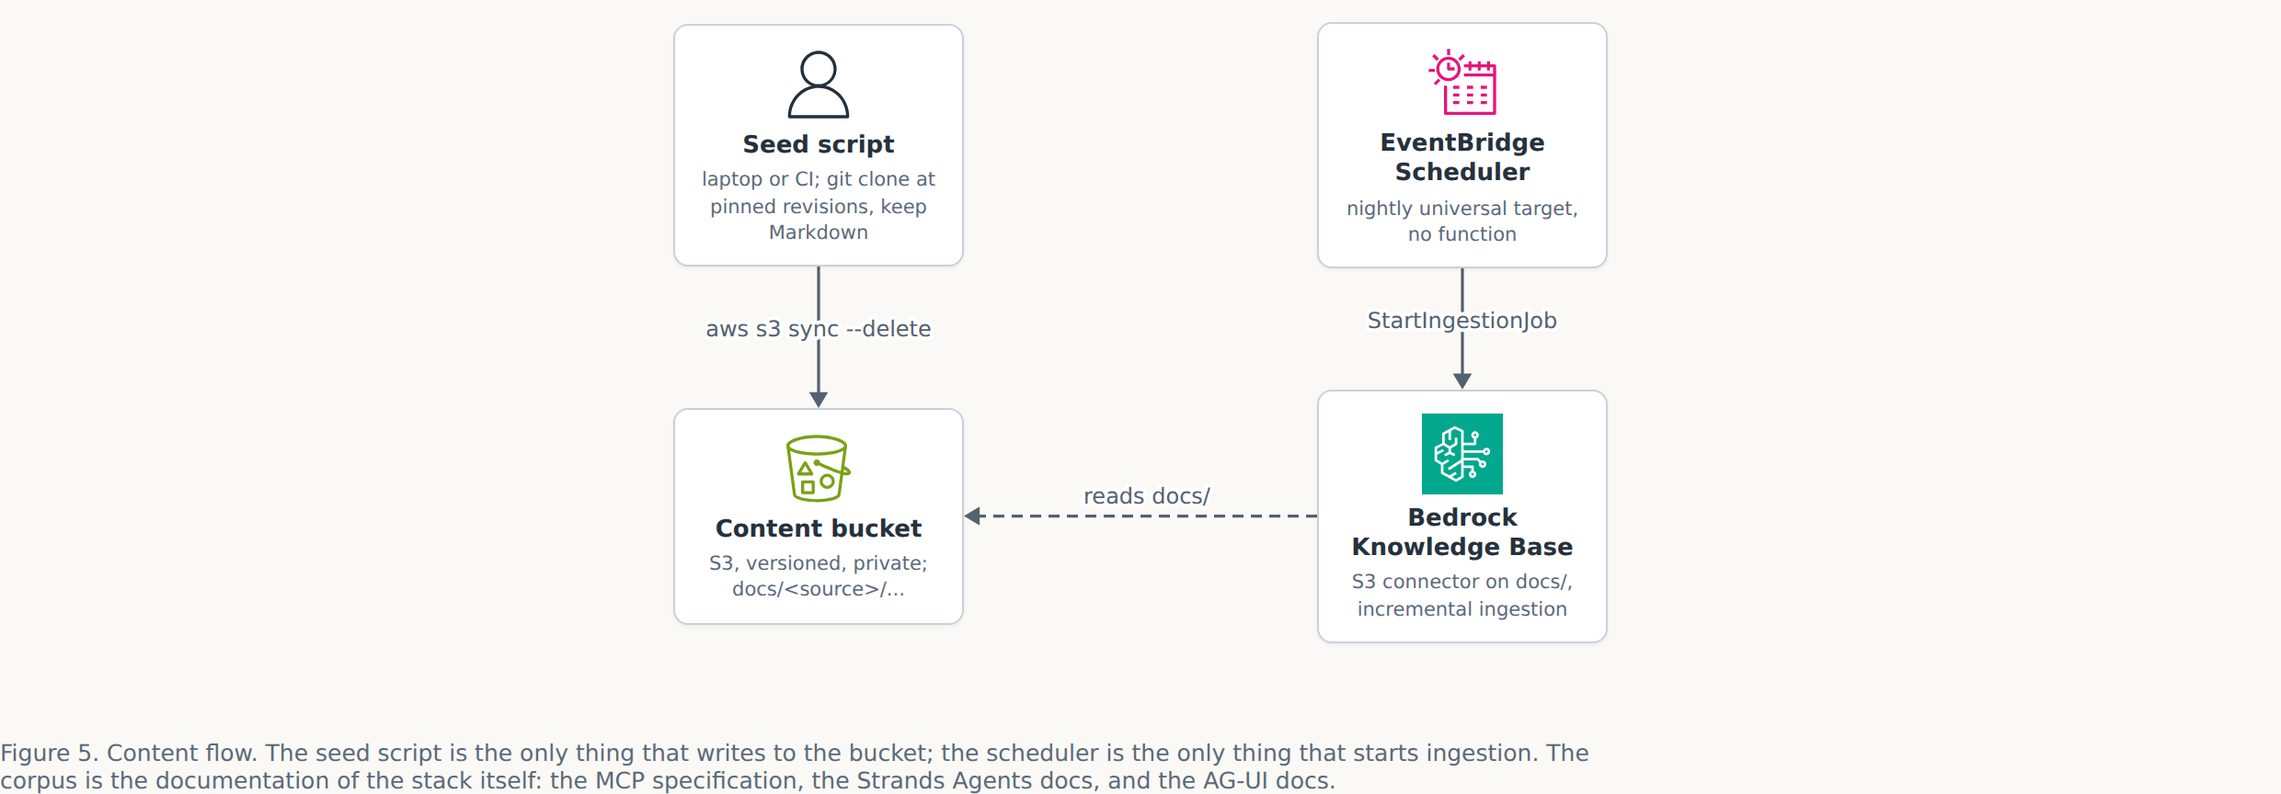
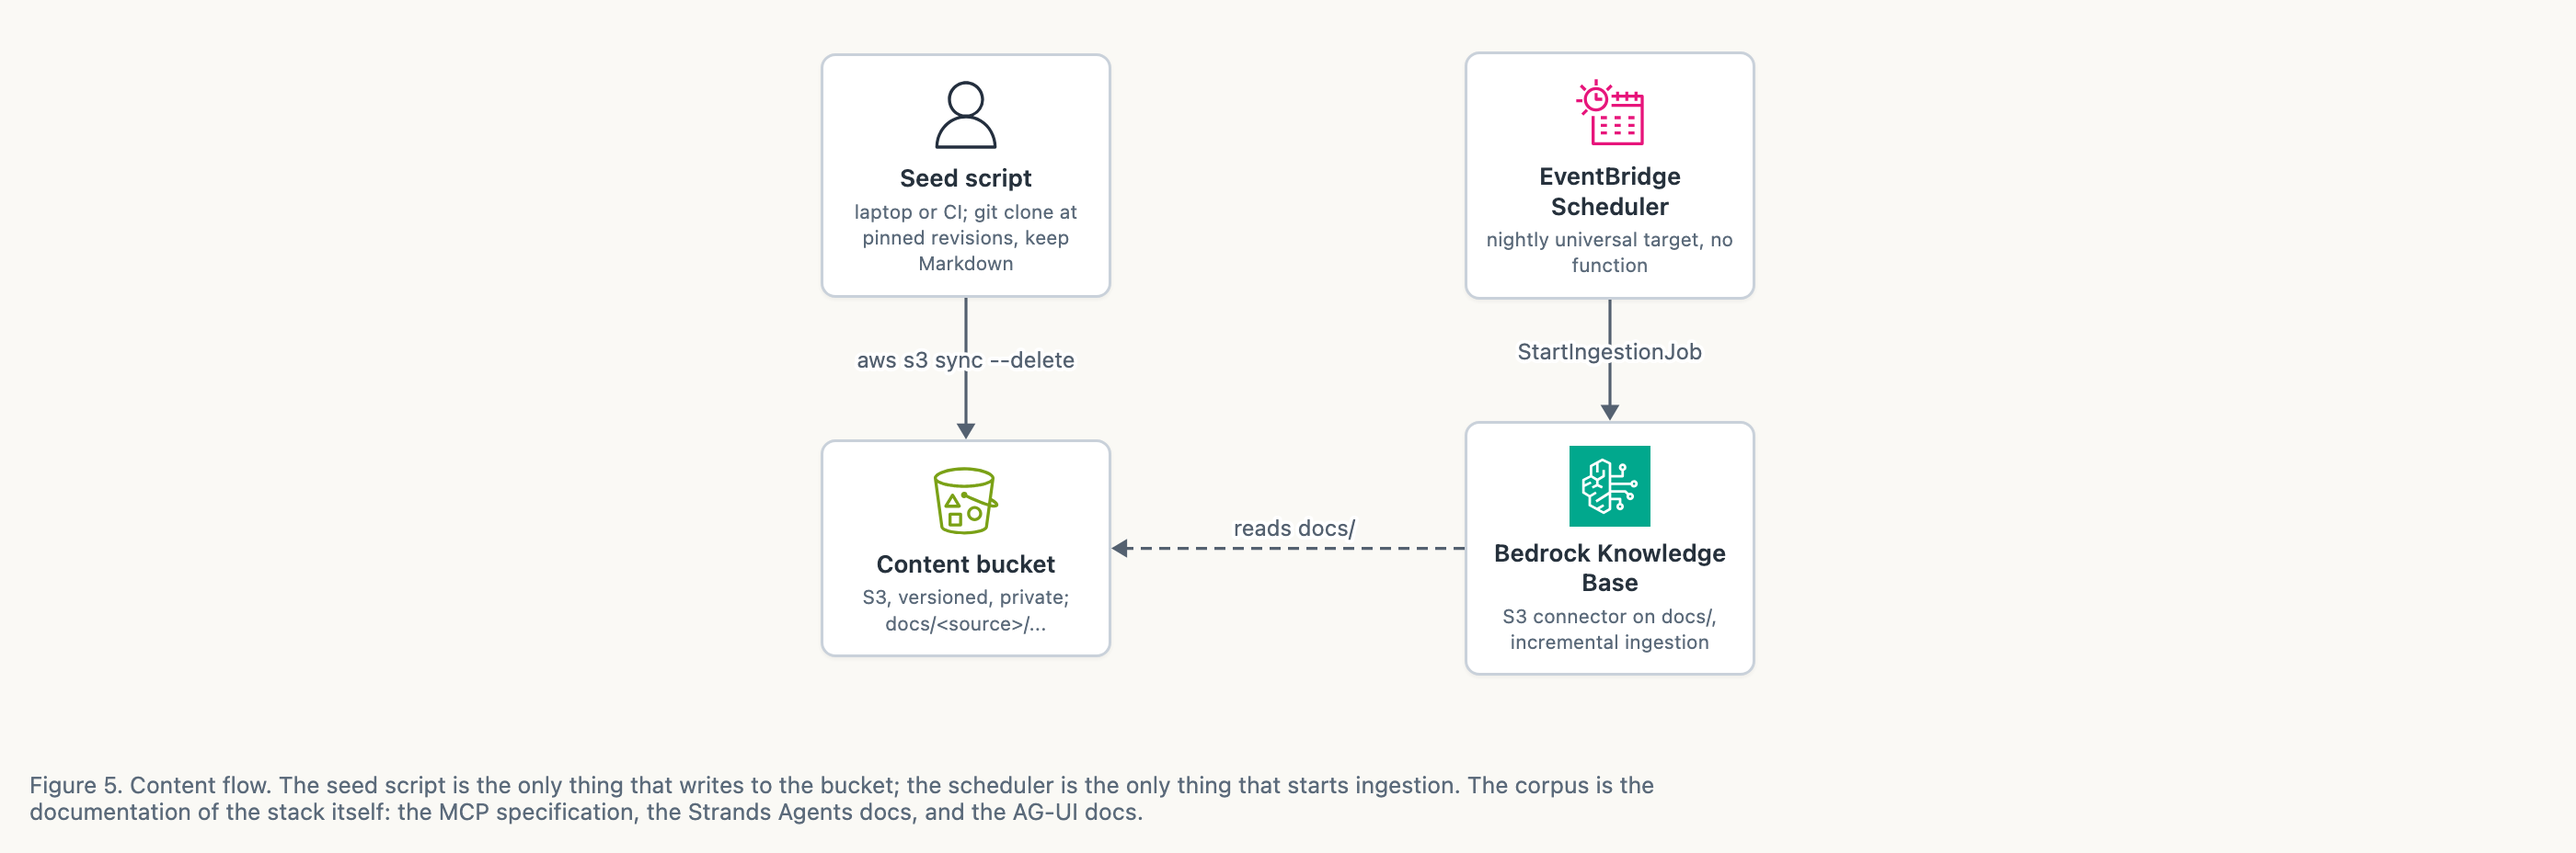
README: describe the stack, and bring the diagram page and its exports up to date
The runtime figure on the diagram page now matches the design document's
figure 3 (feedback API, EventBridge bus, conversation log, Dynatrace), and the
three PNG exports were regenerated from it with headless Chrome at 2x.

diff --git a/docs/guppigpt-architecture.html b/docs/guppigpt-architecture.html
@@ -59,15 +59,19 @@ figcaption { font-size: 12.5px; color: #5b6a7a; margin-top: 10px; max-width: 900
 
 <figure>
 <div data-diagram>
-  <div class="dg-grid" style="grid-template-columns: repeat(4, auto);">
+  <div class="dg-grid" style="grid-template-columns: repeat(5, auto);">
     <div class="cloud"><span class="dg-group-label">AWS Cloud &middot; us-east-1</span></div>
[14 lines of base64/hex data omitted]
@@ -84,11 +88,16 @@ figcaption { font-size: 12.5px; color: #5b6a7a; margin-top: 10px; max-width: 900
   {"from":"edgegw","to":"runtime","label":"/invocations, SSE back"},
   {"from":"runtime","to":"model","label":"stream tokens"},
   {"from":"runtime","to":"toolsgw","label":"MCP tool call, user JWT"},
-  {"from":"toolsgw","to":"kb","label":"Retrieve, gateway role"}
+  {"from":"toolsgw","to":"kb","label":"Retrieve, gateway role"},
+  {"from":"cf","to":"feedbackapi","label":"POST /api/feedback"},
+  {"from":"feedbackapi","to":"bus","label":"PutEvents"},
+  {"from":"runtime","to":"convlog","label":"thread record","style":"dashed"},
+  {"from":"runtime","to":"dynatrace","label":"OTLP spans","style":"dashed"},
+  {"from":"bus","to":"dynatrace","label":"business event","style":"dashed"}
 ]
   </script>
 </div>
-<figcaption>Figure 3. Runtime architecture. Solid edges are the request path; dashed edges are federation and inspection. The user's JWT travels every hop up to the tools gateway, which calls the knowledge base with its own IAM role. Two AgentCore Gateways: the edge gateway has no protocol type so it can hold a runtime target; the tools gateway is MCP.</figcaption>
+<figcaption>Figure 3. Runtime architecture. Solid edges are the request path; dashed edges are federation, telemetry, and inspection. Two gateways: one in front of the runtime, one in front of the knowledge base. The vote path leaves CloudFront before the runtime; the thread record and the spans leave the runtime after the stream has ended. Route 53, ACM, Secrets Manager, KMS, CloudWatch, and SNS support the path and are described in the component notes. The <code>GuppiGpt</code> stack contains no Lambda function; the only ones in the account belong to Dynatrace's own activation stack, outside it.</figcaption>
 </figure>
 
 <figure>

diff --git a/README.md b/README.md
@@ -1,10 +1,32 @@
 # GuppiGPT
 
-A one page, stateless, plain text chat behind Google sign-in. The page is served from
-CloudFront, the stream runs through an AgentCore Gateway to a Strands agent on AgentCore
-Runtime, and the agent reads a Bedrock Knowledge Base through a second gateway.
+A one page, plain text chat behind Google sign-in. The page is served from CloudFront,
+the stream runs through an AgentCore Gateway to a Strands agent on AgentCore Runtime, and
+the agent reads a Bedrock Knowledge Base through a second gateway.
 
 ![GuppiGPT runtime architecture](docs/guppigpt-architecture-runtime.png)
+
+The stack is Amazon Bedrock end to end. AgentCore Runtime hosts the agent container, two
+AgentCore Gateways front it (one holds the runtime as its target and checks the caller's
+JWT, the other exposes the knowledge base as an MCP tool), Bedrock Knowledge Bases holds
+the documentation the agent searches, and a Claude model answers through a cross-region
+inference profile. The agent is written with Strands and speaks AG-UI: the page opens one
+HTTP request per turn and reads a server-sent event stream of text deltas, tool events, and
+run boundaries through `@ag-ui/client`, so the same wire format a future rich client would
+use is already what the plain page consumes. Sign-in is Google through a Cognito user pool
+with PKCE in the browser, and the user's token travels every hop up to the tools gateway.
+There is no Lambda function in the request path; the only ones in the account belong to
+Dynatrace's own AWS integration stack.
+
+State stays small and mostly in the browser. The sign-in session persists across reloads
+through a rotated refresh token in IndexedDB, chat history is a browser-local feature behind
+a flag, and the page's feature flags are a committed JSON file with browser-wide overrides
+from a URL-only settings page. On the server, each conversation is written to a private S3
+bucket for thirty days under a keyed pseudonym rather than the account id, readable only
+through a dedicated investigator role. Observability is never behind a flag: the container
+exports OpenTelemetry spans, the gateways and runtime ship vended logs, a vote on a reply
+becomes an EventBridge event, and all of it lands in a Dynatrace tenant alongside RUM from
+the page, with CloudWatch alarms and AWS WAF in front of the gateway as the guards.
 
 ## Documentation
 
